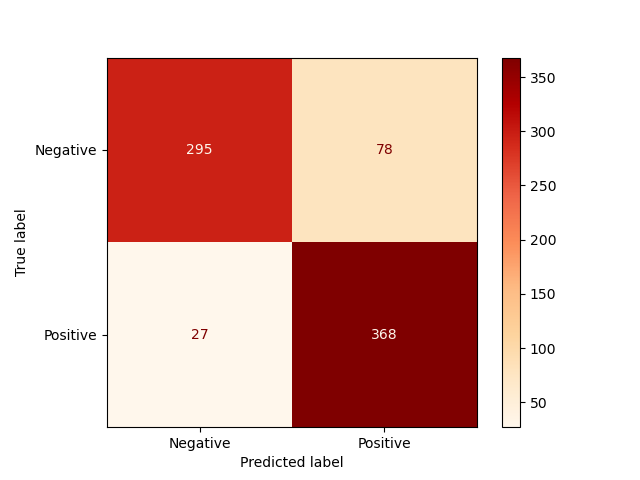
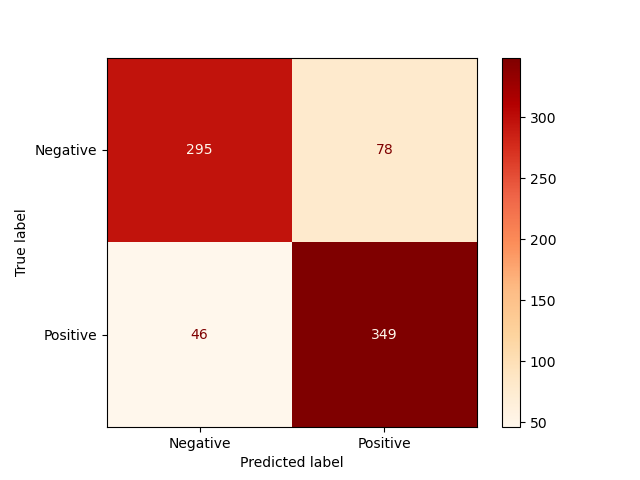
relance classification lemmatisation + petits fixes dans le main + ajout sauvegarde des mesures

diff --git a/src/classification/main_script.py b/src/classification/main_script.py
@@ -8,73 +8,116 @@ Created on Fri Mar 29 11:27:53 2024
 
 import argparse
 from sklearn.feature_extraction.text import TfidfVectorizer
+from sklearn.metrics import (
+    classification_report,
+    confusion_matrix,
+    ConfusionMatrixDisplay,
+)
 import pandas as pd
+import numpy as np
+import matplotlib.pyplot as plt
 from naive_bayes import naive_bayes_classification
+from svm import svm_classification
 
 
 class FileLoader:
-    
     def load(self, path):
         """transforme le csv en dataframe"""
-        
-        df = pd.read_csv(path)
+
+        df = pd.read_csv(path, sep="|")
         rows, columns = df.shape
         print(f"Loading dataset of dimensions {rows} x {columns}")
-        
+
         return df
 
-    
+
 def get_data(df):
     """Extrait les phrases et leurs classes depuis un dataframe"""
-    
-    data = df[["Texte", "Classe"]]    
+
+    data = df[["Texte", "Classe"]]
     phrases = data["Texte"]
     classes = data["Classe"]
-    
+
     return phrases, classes
-        
-  
+
+
 def get_matrix(phrases):
     """vectorise les phrases"""
-    
+
     vectorizer = TfidfVectorizer(input="content")
     matrix = vectorizer.fit_transform(phrases).toarray()
-    
+
     return matrix
-        
+
+
+def print_error():
+    print("Choississez un classifieur : option -c suivi du modele choisi :")
+    print("-c NB \tpour lancer Naive Bayes")
+    print("-c SVM \tpour lancer SVM")
+    print("-c DT \tpour lancer Decision Tree")
+    print("-c RF \tpour lancer Random Forest")
+
+
+# Dictionnaire pour lancer le classifieur en fonction de l'option choisie
+modeles = {
+    "NB": naive_bayes_classification,
+    "SVM": svm_classification,
+    "DT": "plop",
+    "RF": "plop",
+}
+
+
+def save_prediction(prediction, classes, output):
+    report = str(classification_report(classes, prediction))
+    with open(output, "w") as file:
+        file.write(report)
+
+
+def generate_confusion_matrix(prediction, classes):
+    conf_matrix = confusion_matrix(classes, prediction)
+    disp = ConfusionMatrixDisplay(conf_matrix, display_labels=np.unique(classes))
+    disp.plot(cmap="OrRd")
+    plt.show()
+
+
 ################################ MAIN ####################################
 
-def main ():
+
+def main():
     parser = argparse.ArgumentParser(description="lanceur de classifieurs")
-    parser.add_argument("input_file", type=str, help="Chemin vers le fichier contenant les data csv")
-    parser.add_argument("-c", "--classifieur", choices = ["NB", "SVM", "DT", "RF"], help = "Choix du modèle de classifieur")
+    parser.add_argument(
+        "input_file", type=str, help="Chemin vers le fichier contenant les data csv"
+    )
+    parser.add_argument(
+        "-c",
+        "--classifieur",
+        choices=["NB", "SVM", "DT", "RF"],
+        help="Choix du modèle de classifieur",
+    )
+    parser.add_argument(
+        "-o",
+        "--output_file",
+        type=str,
+        help="Chemin vers le fichier pour sauvegarder les scores.",
+    )
     args = parser.parse_args()
-    
-    if args.classifieur:
-        
-        # Load le corpus et extrait les vecteurs (matrices) et les classes
-        loader = FileLoader()
-        file = loader.load(args.input_file)
-        phrases, classes = get_data(file)  
-        matrix = get_matrix(phrases)
-        
-        # Dictionnaire pour lancer le classifieur en fonction de l'option choisie
-        modele = {
-            "NB": naive_bayes_classification,
-            "SVM": "plop",
-            "DT": "plop",
-            "RF" : "plop"
-            }
-        
-        # Lancement du classifieur
-        modele[args.classifieur](matrix, classes)
-        
-    else :
-        print("Choississez un classifieur : option -c suivi du modele choisi :")
-        print("-c NB \tpour lancer Naive Bayes")
-        print("-c SVM \tpour lancer SVM")
-        print("-c DT \tpour lancer Decision Tree")
-        print("-c RF \tpour lancer Random Forest")
-     
+    if not args.classifieur:
+        print_error()
+        return 1
+    output = args.output_file
+    if not output:
+        output = f"classification-report-{args.classifieur}.txt"
+    # Load le corpus et extrait les vecteurs (matrices) et les classes
+    loader = FileLoader()
+    file = loader.load(args.input_file)
+    phrases, classes = get_data(file)
+    matrix = get_matrix(phrases)
+
+    # Lancement du classifieur
+    prediction = modeles[args.classifieur](matrix, classes)
+    save_prediction(prediction, classes, output)
+    generate_confusion_matrix(prediction, classes)
+
+
 if __name__ == "__main__":
     main()

diff --git a/src/classification/naive_bayes.py b/src/classification/naive_bayes.py
@@ -17,15 +17,8 @@ def naive_bayes_classification(matrix, classes):
     nb_classifier = MultinomialNB()
     y_pred = cross_val_predict(nb_classifier, matrix, classes, cv=10)
     accuracy = accuracy_score(classes, y_pred)
-    precision = precision_score(classes, y_pred, average="macro")
-    recall = recall_score(classes, y_pred, average="macro")
-    f_score = f1_score(classes, y_pred, average="macro")
-    print(classification_report(classes, y_pred))
-    conf_matrix = confusion_matrix(classes, y_pred)
-    disp = ConfusionMatrixDisplay(conf_matrix, display_labels=np.unique(classes))
-    disp.plot(cmap="OrRd")
-    plt.show()
-    return accuracy, precision, recall, f_score
+    return y_pred
+
 
 def main():
     if len(sys.argv) != 2:
@@ -34,11 +27,7 @@ def main():
     file = loader.load(sys.argv[1])
     corpus, classes = get_data(file)
     matrix = get_matrix(corpus)
-    accuracy, precision, recall, f_score = naive_bayes_classification(matrix, classes)
-    # print(f"Accuracy: {accuracy}")
-    # print(f"precision: {precision}")
-    # print(f"recall: {recall}")
-    # print(f"f_score: {f_score}")
+    y_pred = naive_bayes_classification(matrix, classes)
 
 if __name__ == "__main__":
     main()

diff --git a/src/classification/svm.py b/src/classification/svm.py
@@ -17,15 +17,7 @@ def svm_classification(matrix, classes):
     svm_classifier = SVC(kernel='linear')
     y_pred = cross_val_predict(svm_classifier, matrix, classes, cv=10)
     accuracy = accuracy_score(classes, y_pred)
-    precision = precision_score(classes, y_pred, average="macro")
-    recall = recall_score(classes, y_pred, average="macro")
-    f_score = f1_score(classes, y_pred, average="macro")
-    print(classification_report(classes, y_pred))
-    conf_matrix = confusion_matrix(classes, y_pred)
-    disp = ConfusionMatrixDisplay(conf_matrix, display_labels=np.unique(classes))
-    disp.plot(cmap="OrRd")
-    plt.show()
-    return accuracy, precision, recall, f_score
+    return y_pred
 
 def main():
     if len(sys.argv) != 2:
@@ -34,11 +26,7 @@ def main():
     file = loader.load(sys.argv[1])
     corpus, classes = get_data(file)
     matrix = get_matrix(corpus)
-    accuracy, precision, recall, f_score = svm_classification(matrix, classes)
-    # print(f"Accuracy: {accuracy}")
-    # print(f"precision: {precision}")
-    # print(f"recall: {recall}")
-    # print(f"f_score: {f_score}")
+    y_pred = svm_classification(matrix, classes)
 
 if __name__ == "__main__":
     main()
